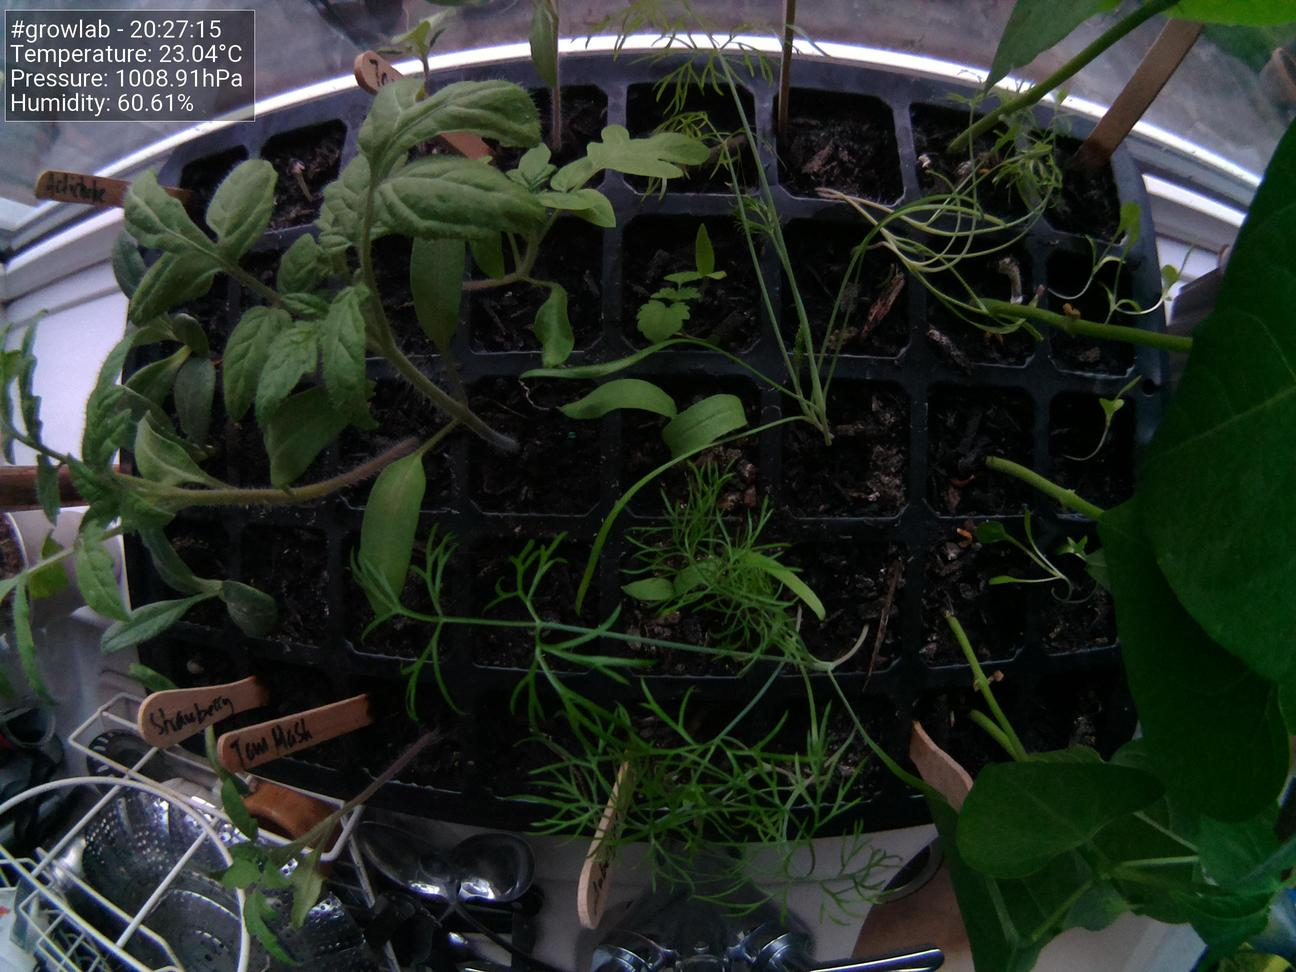
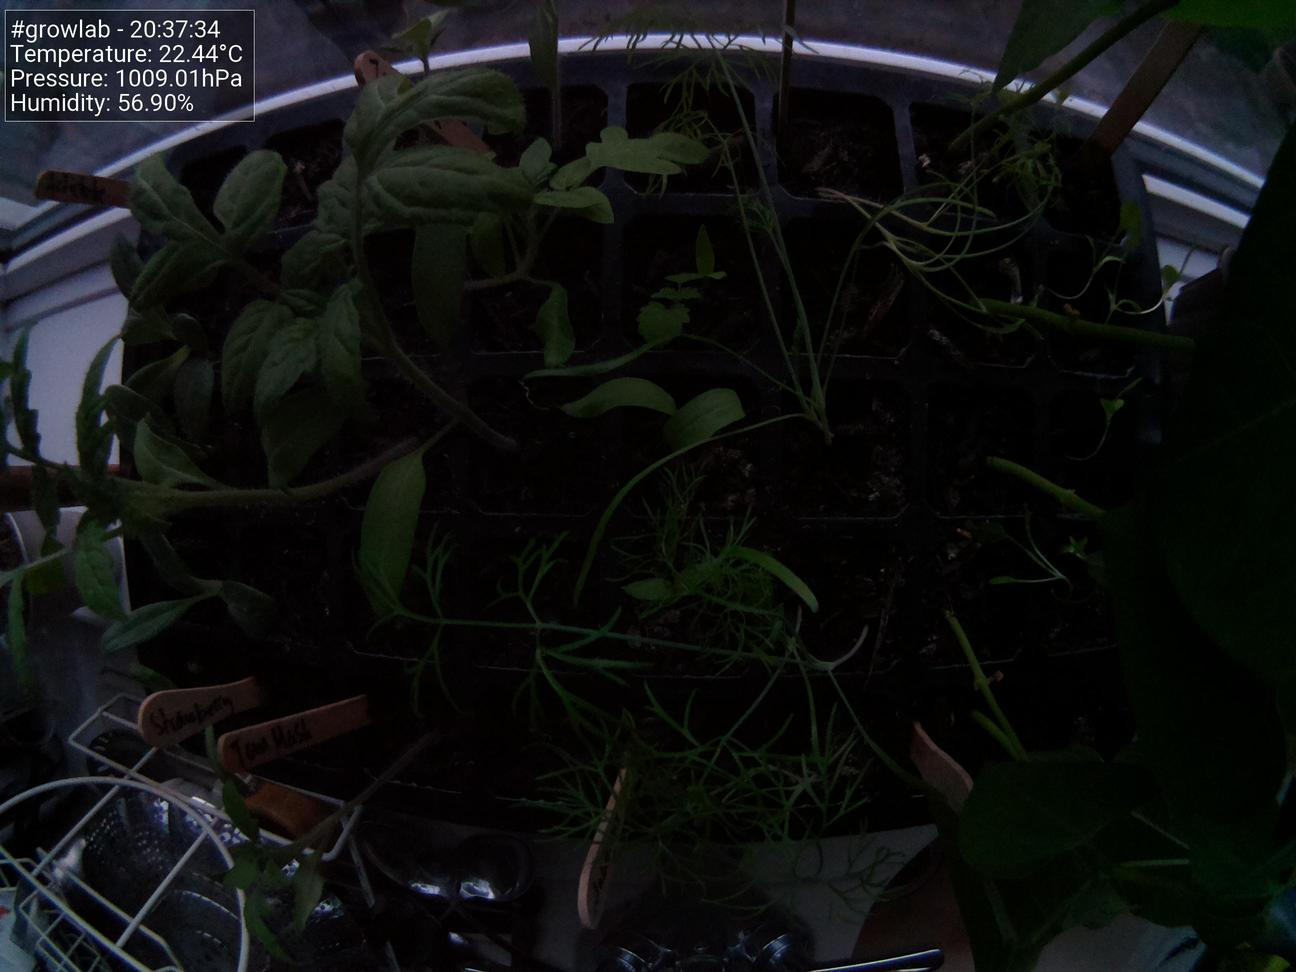
Update images at Wed 28 Apr 20:37:45 BST 2021

diff --git a/docs/index.html b/docs/index.html
@@ -38,19 +38,19 @@
                     <tbody>
                         <tr>
                             <td>Time</td>
-                            <td>20:27:15</td>
+                            <td>20:37:34</td>
                         </tr>
                         <tr>
                             <td>Temperature</td>
-                            <td>23.04°C</td>
+                            <td>22.44°C</td>
                         </tr>
                         <tr>
                             <td>Humidity</td>
-                            <td>60.61%</td>
+                            <td>56.90%</td>
                         </tr>
                         <tr>
                             <td>Pressure</td>
-                            <td>1008.91hPa</td>
+                            <td>1009.01hPa</td>
                         </tr>
                     </tbody>
                 </table>
@@ -58,7 +58,7 @@
 
                 <h5>Latest image</h5>
 		<div style="width: 85%;">
-	                <img class="figure-img img-fluid rounded" src="./preview.jpg?uid=1619638046.1817436">
+	                <img class="figure-img img-fluid rounded" src="./preview.jpg?uid=1619638665.211877">
 		</div>
             </div>
         </div>
